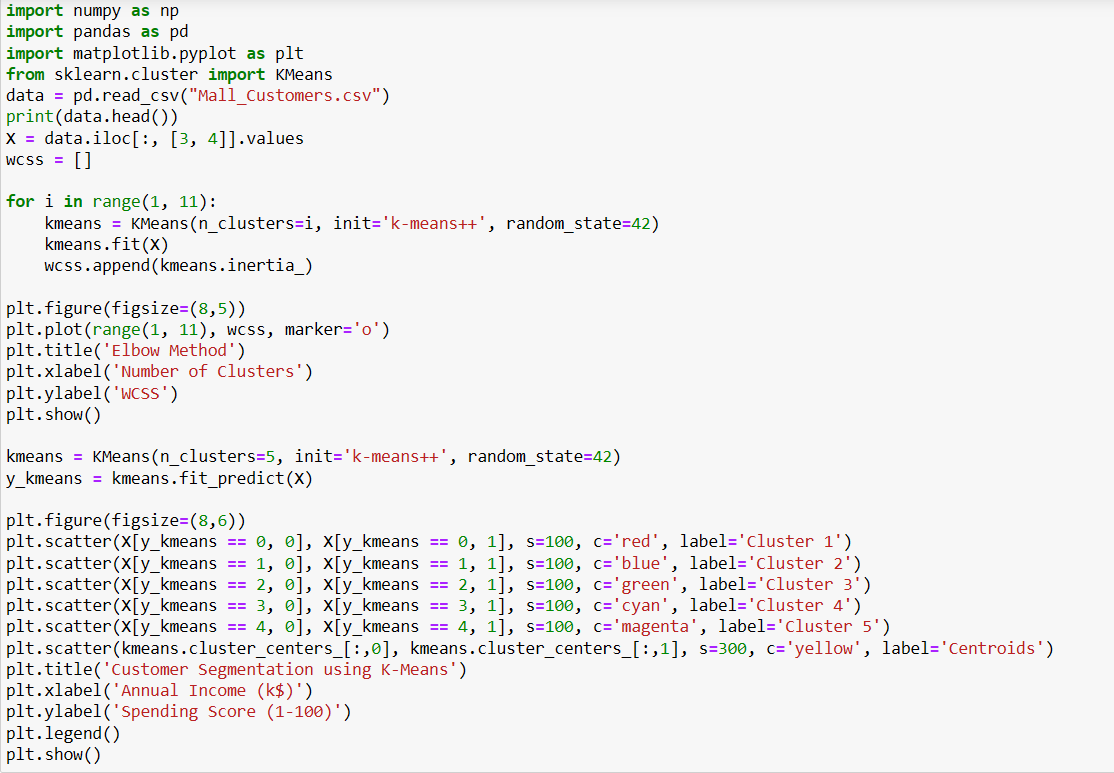
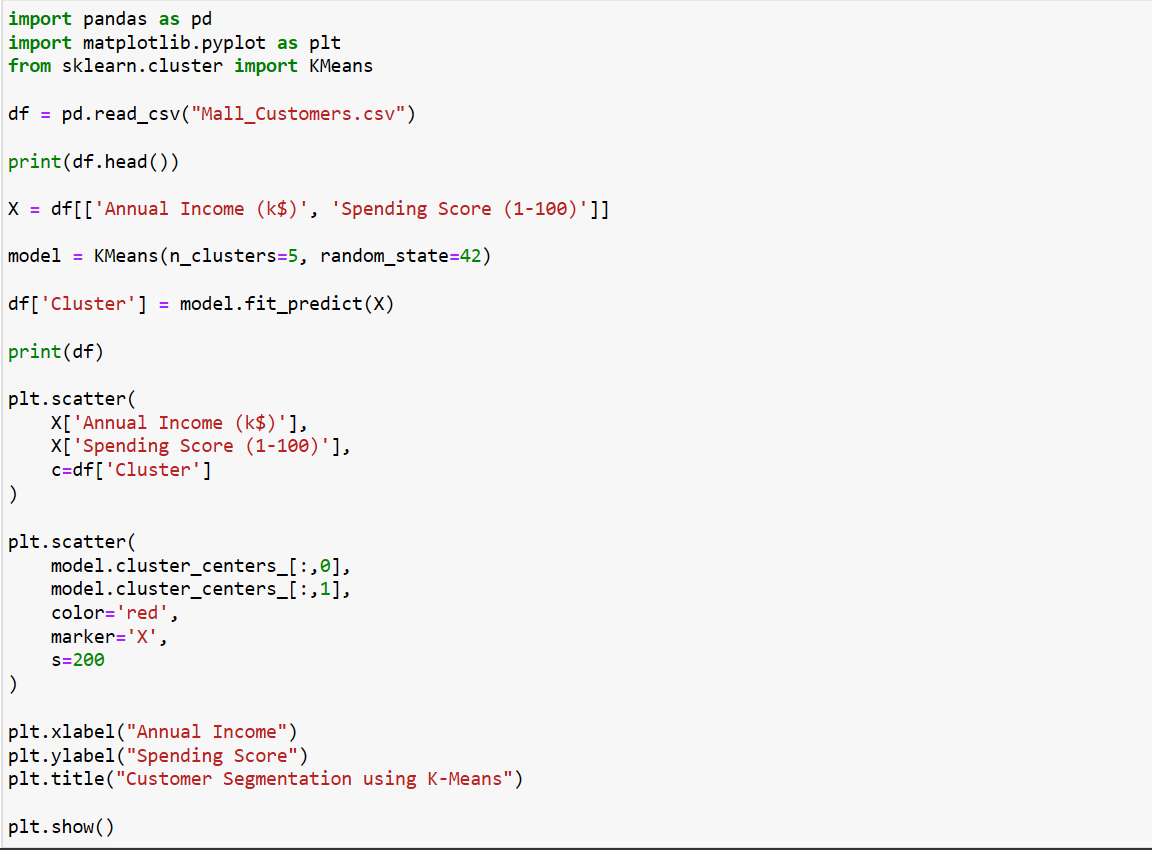
success

diff --git a/README.md b/README.md
@@ -24,41 +24,40 @@ To write a program to implement the K Means Clustering for Customer Segmentation
 /*
 Program to implement the K Means Clustering for Customer Segmentation.
 
-import numpy as np
 import pandas as pd
 import matplotlib.pyplot as plt
 from sklearn.cluster import KMeans
-data = pd.read_csv("Mall_Customers.csv")
-print(data.head())
-X = data.iloc[:, [3, 4]].values
-wcss = []
 
-for i in range(1, 11):
-    kmeans = KMeans(n_clusters=i, init='k-means++', random_state=42)
-    kmeans.fit(X)
-    wcss.append(kmeans.inertia_)
+df = pd.read_csv("Mall_Customers.csv")
 
-plt.figure(figsize=(8,5))
-plt.plot(range(1, 11), wcss, marker='o')
-plt.title('Elbow Method')
-plt.xlabel('Number of Clusters')
-plt.ylabel('WCSS')
-plt.show()
+print(df.head())
 
-kmeans = KMeans(n_clusters=5, init='k-means++', random_state=42)
-y_kmeans = kmeans.fit_predict(X)
+X = df[['Annual Income (k$)', 'Spending Score (1-100)']]
 
-plt.figure(figsize=(8,6))
-plt.scatter(X[y_kmeans == 0, 0], X[y_kmeans == 0, 1], s=100, c='red', label='Cluster 1')
-plt.scatter(X[y_kmeans == 1, 0], X[y_kmeans == 1, 1], s=100, c='blue', label='Cluster 2')
-plt.scatter(X[y_kmeans == 2, 0], X[y_kmeans == 2, 1], s=100, c='green', label='Cluster 3')
-plt.scatter(X[y_kmeans == 3, 0], X[y_kmeans == 3, 1], s=100, c='cyan', label='Cluster 4')
-plt.scatter(X[y_kmeans == 4, 0], X[y_kmeans == 4, 1], s=100, c='magenta', label='Cluster 5')
-plt.scatter(kmeans.cluster_centers_[:,0], kmeans.cluster_centers_[:,1], s=300, c='yellow', label='Centroids')
-plt.title('Customer Segmentation using K-Means')
-plt.xlabel('Annual Income (k$)')
-plt.ylabel('Spending Score (1-100)')
-plt.legend()
+model = KMeans(n_clusters=5, random_state=42)
+
+df['Cluster'] = model.fit_predict(X)
+
+print(df)
+
+plt.scatter(
+    X['Annual Income (k$)'],
+    X['Spending Score (1-100)'],
+    c=df['Cluster']
+)
+
+plt.scatter(
+    model.cluster_centers_[:,0],
+    model.cluster_centers_[:,1],
+    color='red',
+    marker='X',
+    s=200
+)
+
+plt.xlabel("Annual Income")
+plt.ylabel("Spending Score")
+plt.title("Customer Segmentation using K-Means")
+
 plt.show()
 
 Developed by: Swathi P N
@@ -72,9 +71,9 @@ RegisterNumber:  212225232079
 
 ![alt text](ml11.2.png)
 
-![alt text](ml11.4.png)
+![alt text](ml11.3.png)
 
-![alt text](ml11.5.png)
+![alt text](ml11.4.png)
 
 ## Result:
 Thus the program to implement the K Means Clustering for Customer Segmentation is written and verified using python programming.
